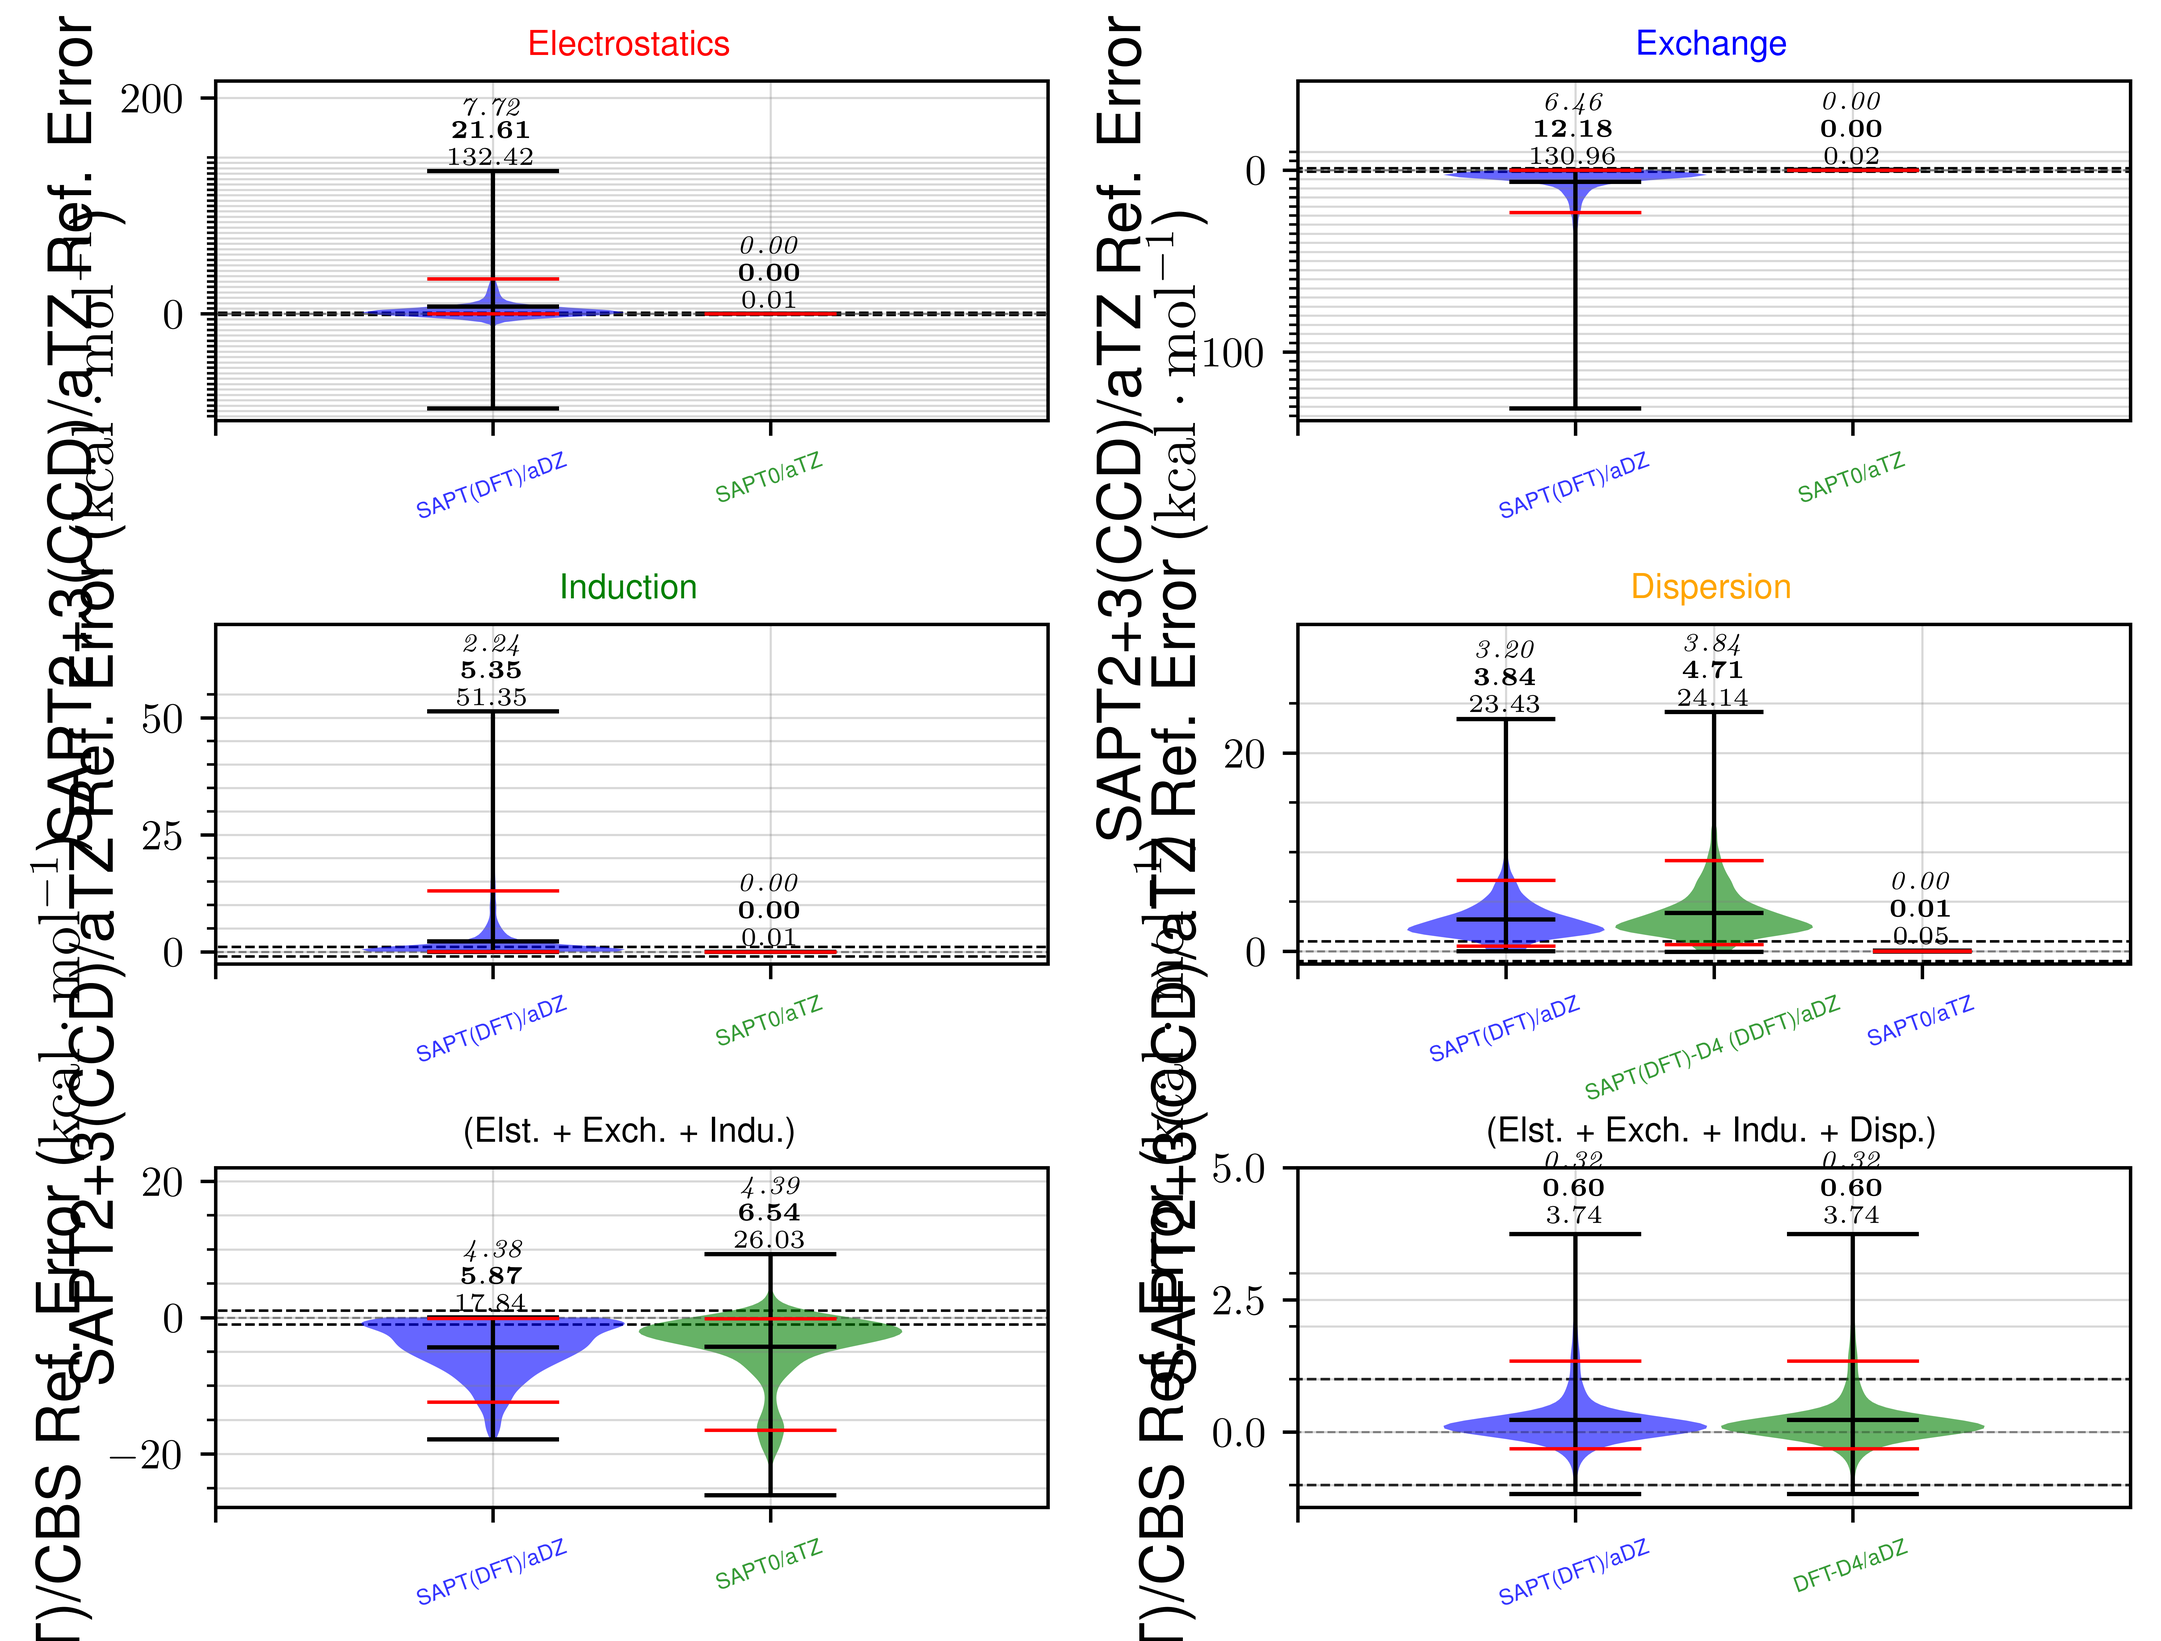
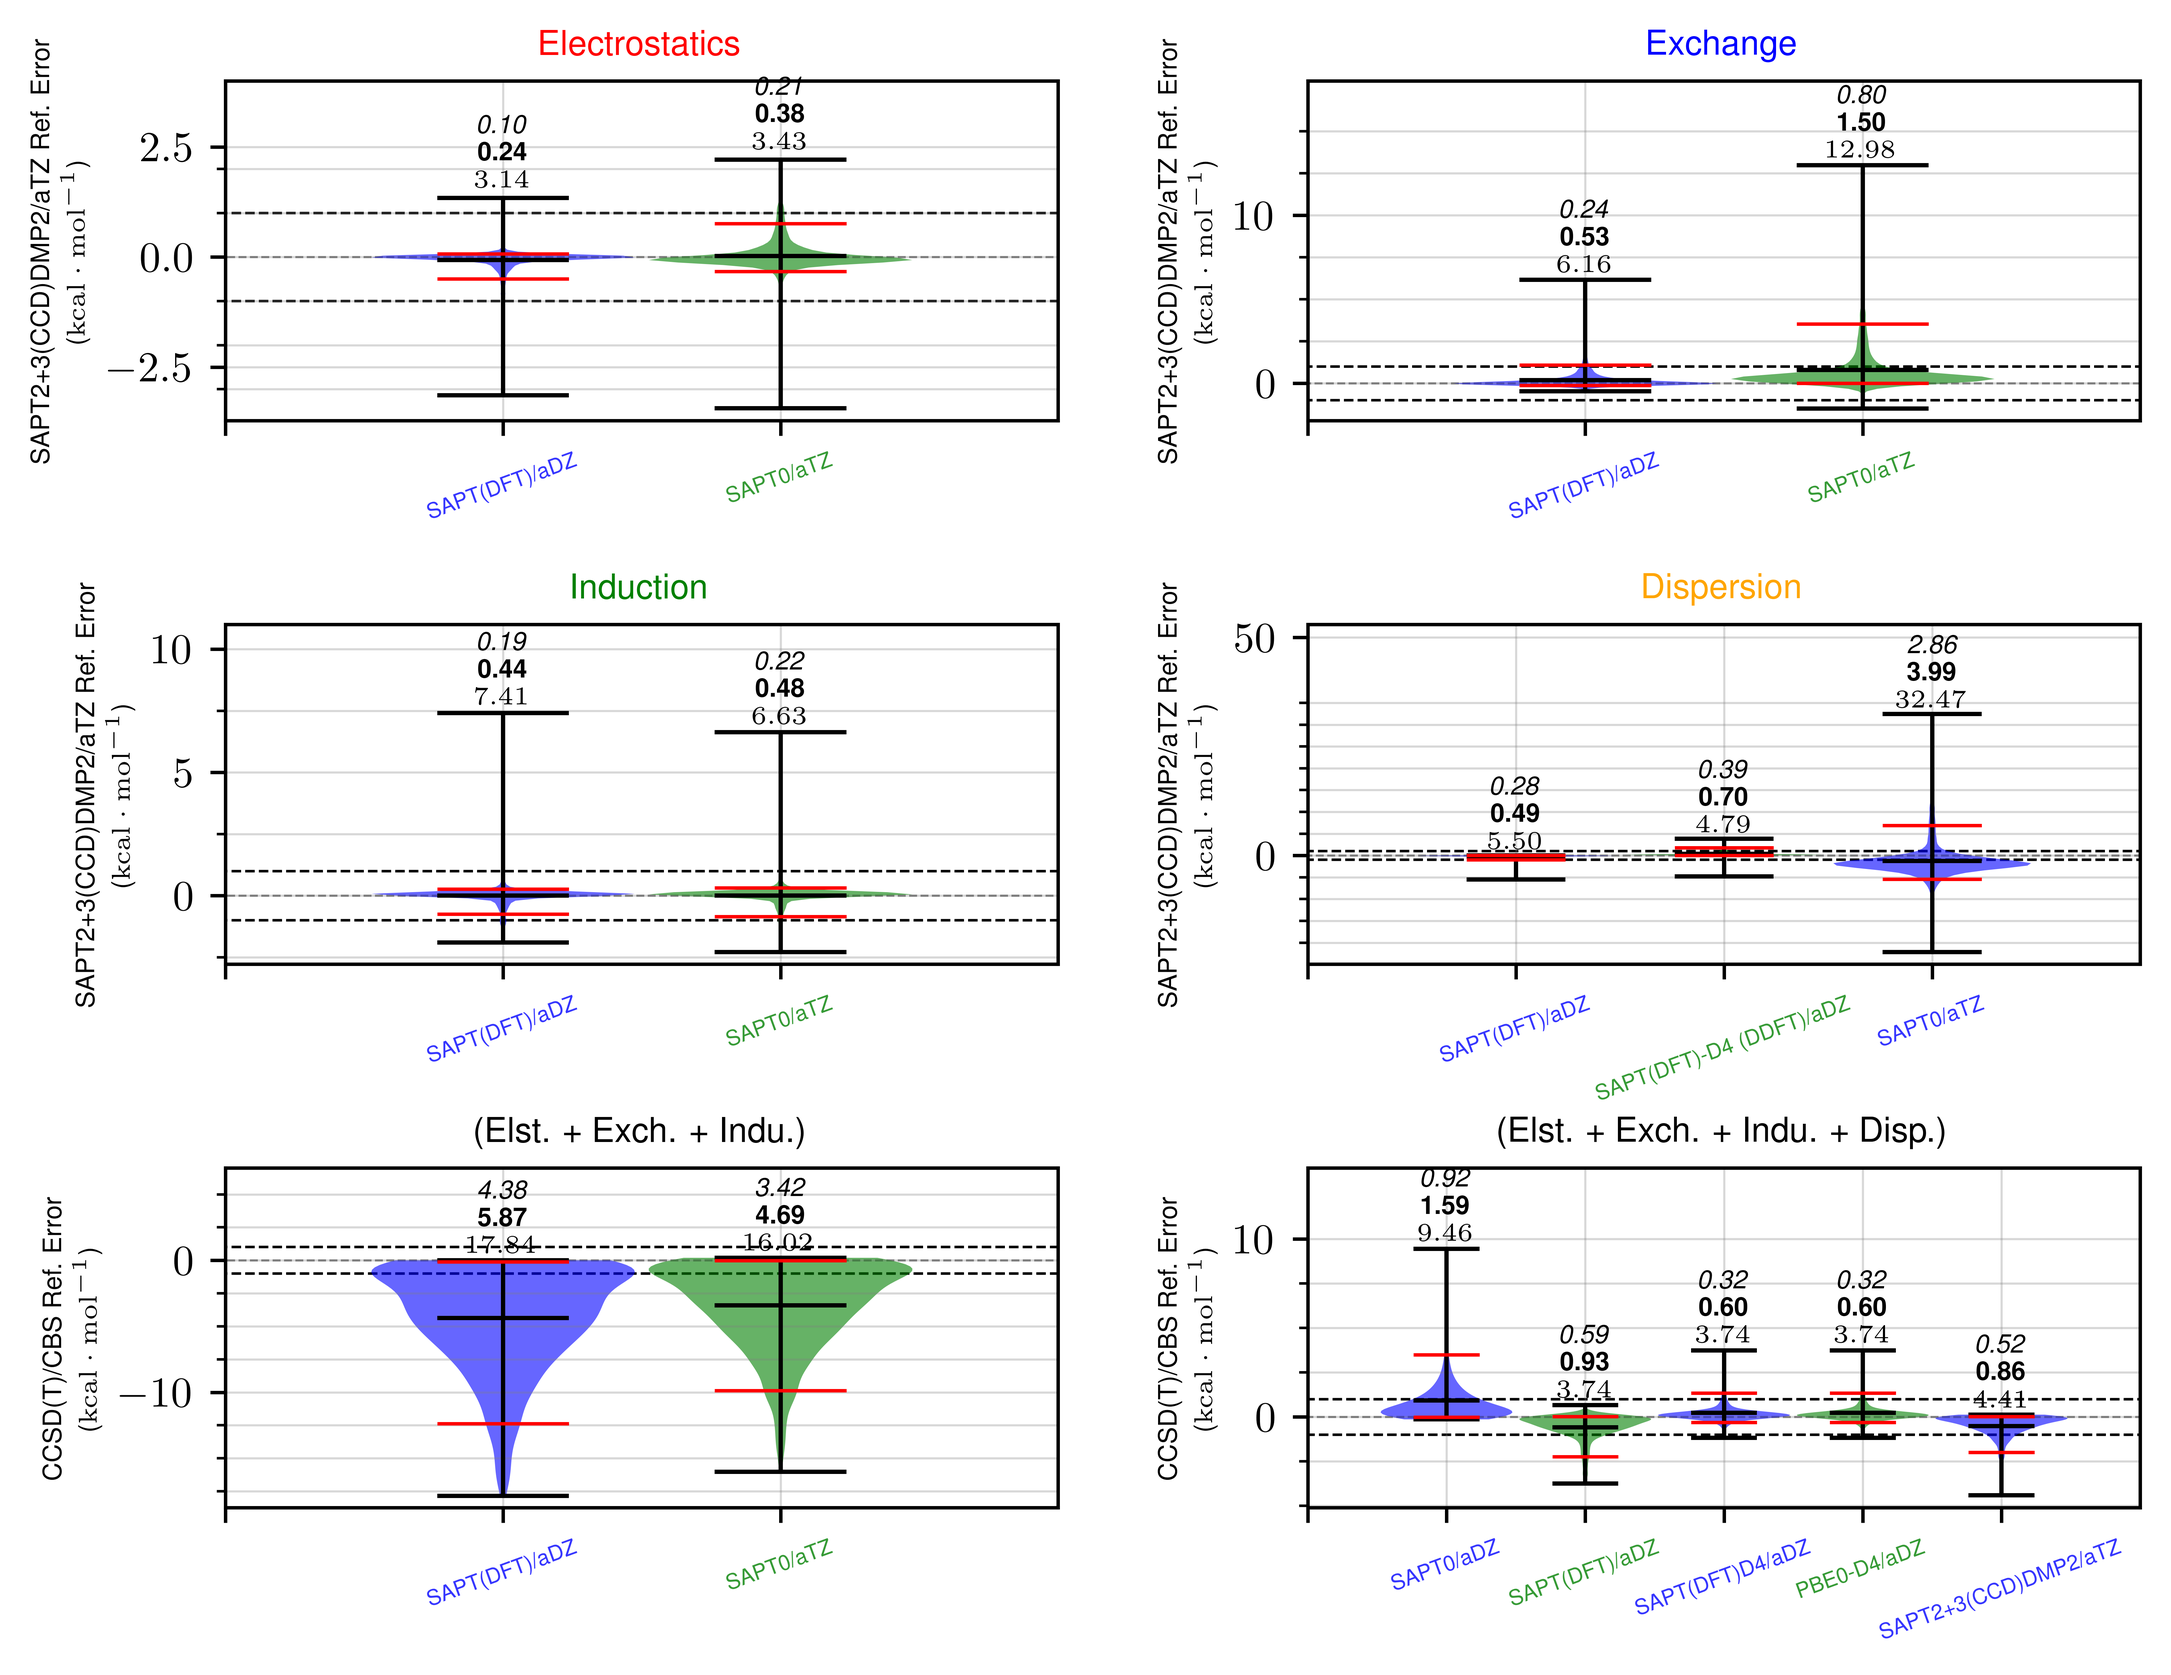
saptdftd4 components correct

diff --git a/src/plotting.py b/src/plotting.py
@@ -8,6 +8,8 @@ import warnings
 from . import paramsTable
 from . import locald4
 from . import jeff
+import qcelemental as qcel
+h2kcalmol =  qcel.constants.conversion_factor("hartree", "kcal/mol")
 
 warnings.simplefilter(action="ignore", category=pd.errors.PerformanceWarning)
 
@@ -1042,7 +1044,7 @@ def plotting_setup_dft(
 
 def plotting_setup_dft_ddft(df, selected, df_out: str = "plots/ddft_study.pkl"):
     print(df)
-    df["SAPT_DFT_pbe0_adz_total"] = df.apply(
+    df["SAPT_DFT_D4_pbe0_adz_total"] = df.apply(
         lambda x: x["SAPT_DFT_adz"][1]
         + x["SAPT_DFT_adz"][2]
         + x["SAPT_DFT_adz"][3]
@@ -1051,9 +1053,17 @@ def plotting_setup_dft_ddft(df, selected, df_out: str = "plots/ddft_study.pkl"):
         - x["SAPT_DFT_pbe0_adz_dHF"],
         axis=1,
     )
+    df["SAPT_DFT_pbe0_adz_total"] = df.apply(
+        lambda x: x["SAPT_DFT_adz"][1]
+        + x["SAPT_DFT_adz"][2]
+        + x["SAPT_DFT_adz"][3]
+        + x["SAPT_DFT_adz"][4],
+        axis=1,
+    )
+
     df['DFT-D4/aDZ'] = df.apply(lambda x: x['SAPT_DFT_pbe0_adz_DFT_IE'] + x['SAPT_DFT_pbe0_adz_D4_IE'], axis=1)
-    print(df[['SAPT_DFT_pbe0_adz_total', 'DFT-D4/aDZ']])
-    assert np.allclose(df['SAPT_DFT_pbe0_adz_total'], df['DFT-D4/aDZ'], atol=1e-6)
+    # print(df[['SAPT_DFT_D4_pbe0_adz_total', 'DFT-D4/aDZ']])
+    assert np.allclose(df['SAPT_DFT_D4_pbe0_adz_total'], df['DFT-D4/aDZ'], atol=1e-6)
     df['SAPT_DFT_pbe0_adz_elst'] = df['SAPT_DFT_adz'].apply(lambda x: x[1])
     df['SAPT_DFT_pbe0_adz_exch'] = df['SAPT_DFT_adz'].apply(lambda x: x[2])
     df['SAPT_DFT_pbe0_adz_indu'] = df['SAPT_DFT_adz'].apply(lambda x: x[3])
@@ -1061,13 +1071,19 @@ def plotting_setup_dft_ddft(df, selected, df_out: str = "plots/ddft_study.pkl"):
     df['SAPT_DFT_adz_3_IE'] = df['SAPT_DFT_pbe0_adz_elst'] + df['SAPT_DFT_pbe0_adz_exch'] + df['SAPT_DFT_pbe0_adz_indu']
     df['SAPT_DFT_pbe0_adz_d4_disp'] = df.apply(lambda x: x["SAPT_DFT_pbe0_adz_D4_IE"] + x["SAPT_DFT_pbe0_adz_dDFT"] - x["SAPT_DFT_pbe0_adz_dHF"], axis=1)
 
-    df['SAPT0_atz_3_IE'] = df['SAPT0 ELST ENERGY'] + df['SAPT0 EXCH ENERGY'] + df['SAPT0 IND ENERGY']
-    df['SAPT0_atz_total'] = df['SAPT0_atz_3_IE'] + df['SAPT0 DISP ENERGY']
-    df['SAPT0_atz_elst'] = df['SAPT0 ELST ENERGY']
-    df['SAPT0_atz_exch'] = df['SAPT0 EXCH ENERGY']
-    df['SAPT0_atz_indu'] = df['SAPT0 IND ENERGY']
-    df['SAPT0_atz_disp'] = df['SAPT0 DISP ENERGY']
-
+    df['SAPT0_atz_3_IE'] = (df['SAPT0 ELST ENERGY'] + df['SAPT0 EXCH ENERGY'] + df['SAPT0 IND ENERGY']) * h2kcalmol
+    df['SAPT0_atz_total'] = (df['SAPT0 ELST ENERGY'] + df['SAPT0 EXCH ENERGY'] + df['SAPT0 IND ENERGY'] +df["SAPT0 DISP ENERGY"]) * h2kcalmol
+    df['SAPT0_atz_elst'] = df['SAPT0 ELST ENERGY'] * h2kcalmol
+    df['SAPT0_atz_exch'] = df['SAPT0 EXCH ENERGY'] * h2kcalmol
+    df['SAPT0_atz_indu'] = df['SAPT0 IND ENERGY'] * h2kcalmol
+    df['SAPT0_atz_disp'] = df['SAPT0 DISP ENERGY'] * h2kcalmol
+    reference = "SAPT2+3(CCD)DMP2"
+    df[f'{reference} ELST ENERGY'] = df[f'{reference} ELST ENERGY'] * h2kcalmol
+    print(df[f'{reference} ELST ENERGY'])
+    df[f'{reference} EXCH ENERGY'] = df[f'{reference} EXCH ENERGY'] * h2kcalmol
+    df[f'{reference} IND ENERGY'] = df[f'{reference} IND ENERGY'] * h2kcalmol
+    df[f'{reference} DISP ENERGY'] = df[f'{reference} DISP ENERGY'] * h2kcalmol
+    df[f'{reference} TOTAL ENERGY'] = df[f'{reference} TOTAL ENERGY'] * h2kcalmol
     # df = compute_d4_from_opt_params(
     #     df,
     #     bases=[
@@ -1084,7 +1100,7 @@ def plotting_setup_dft_ddft(df, selected, df_out: str = "plots/ddft_study.pkl"):
         pfn=f"{selected}_saptdft_components",
         elst_vals={
             "name": "Electrostatics",
-            "reference": ["SAPT2+3(CCD)/aTZ Ref.", "SAPT2+3(CCD) ELST ENERGY"],
+            "reference": [f"{reference}/aTZ Ref.", f"{reference} ELST ENERGY"],
             "vals": {
                 "SAPT(DFT)/aDZ": "SAPT_DFT_pbe0_adz_elst",
                 "SAPT0/aTZ": "SAPT0_atz_elst",
@@ -1092,7 +1108,7 @@ def plotting_setup_dft_ddft(df, selected, df_out: str = "plots/ddft_study.pkl"):
         },
         exch_vals={
             "name": "Exchange",
-            "reference": ["SAPT2+3(CCD)/aTZ Ref.", "SAPT2+3(CCD) EXCH ENERGY"],
+            "reference": [f"{reference}/aTZ Ref.", f"{reference} EXCH ENERGY"],
             "vals": {
                 "SAPT(DFT)/aDZ": "SAPT_DFT_pbe0_adz_exch",
                 "SAPT0/aTZ": "SAPT0_atz_exch",
@@ -1100,7 +1116,7 @@ def plotting_setup_dft_ddft(df, selected, df_out: str = "plots/ddft_study.pkl"):
         },
         indu_vals={
             "name": "Induction",
-            "reference": ["SAPT2+3(CCD)/aTZ Ref.", "SAPT2+3(CCD) IND ENERGY"],
+            "reference": [f"{reference}/aTZ Ref.", f"{reference} IND ENERGY"],
             "vals": {
                 "SAPT(DFT)/aDZ": "SAPT_DFT_pbe0_adz_indu",
                 "SAPT0/aTZ": "SAPT0_atz_indu",
@@ -1108,7 +1124,7 @@ def plotting_setup_dft_ddft(df, selected, df_out: str = "plots/ddft_study.pkl"):
         },
         disp_vals={
             "name": "Dispersion",
-            "reference": ["SAPT2+3(CCD)/aTZ Ref.", "SAPT2+3(CCD) DISP ENERGY"],
+            "reference": [f"{reference}/aTZ Ref.", f"{reference} DISP ENERGY"],
             "vals": {
                 "SAPT(DFT)/aDZ": "SAPT_DFT_pbe0_adz_disp",
                 "SAPT(DFT)-D4 (DDFT)/aDZ": "SAPT_DFT_pbe0_adz_d4_disp",
@@ -1127,10 +1143,12 @@ def plotting_setup_dft_ddft(df, selected, df_out: str = "plots/ddft_study.pkl"):
             "name": "(Elst. + Exch. + Indu. + Disp.)",
             "reference": ["CCSD(T)/CBS Ref.", "benchmark ref energy"],
             "vals": {
-                # "SAPT0/aDZ": "SAPT0_adz_total",
+                "SAPT0/aDZ": "SAPT0_atz_total",
                 # "SAPT0-D4/aDZ": "SAPT0_adz_d4",
                 "SAPT(DFT)/aDZ": "SAPT_DFT_pbe0_adz_total",
-                "DFT-D4/aDZ": "SAPT_DFT_pbe0_adz_total",
+                "SAPT(DFT)D4/aDZ": "SAPT_DFT_D4_pbe0_adz_total",
+                "PBE0-D4/aDZ": "SAPT_DFT_D4_pbe0_adz_total",
+                "SAPT2+3(CCD)DMP2/aTZ": "SAPT2+3(CCD)DMP2 TOTAL ENERGY",
                 # "SAPT(DFT)-D4/aDZ": "SAPT_DFT_adz_3_IE_d4",
                 # "SAPT(DFT)-D4(ATM)/aDZ": "SAPT_DFT_adz_3_IE_d4_ATM",
                 # "SAPT(DFT)/aTZ": "SAPT_DFT_atz_total",
@@ -1237,11 +1255,6 @@ def plot_violin_d3_d4_ALL(
         rmse = df_sub[v].apply(lambda x: x**2).mean() ** 0.5
         mae = df_sub[v].apply(lambda x: abs(x)).mean()
         max_error = df_sub[v].apply(lambda x: abs(x)).max()
-        # text = r"$\mathbf{\mathit{%.2f}}$" % mae
-        # text += "\n"
-        # text += r"$\mathbf{%.2f}$" % rmse
-        # text += "\n"
-        # text += r"$\mathrm{%.2f}$" % max_error
         text = r"\textit{%.2f}" % mae
         text += "\n"
         text += r"\textbf{%.2f}" % rmse
@@ -1392,30 +1405,31 @@ def plot_violin_d3_d4_ALL(
     return
 
 
-def collect_component_data(df, vals):
+def collect_component_data(df, vals, verbose=True):
     vLabels, vData = [], []
     annotations = []  # [(x, y, text), ...]
     cnt = 1
-    # print(vals)
     for k, v in vals["vals"].items():
-        # print(k, v)
         df[v] = pd.to_numeric(df[v])
         df[f"{v}_diff"] = df[vals["reference"][1]] - df[v]
         df_sub = df[df[f"{v}_diff"].notna()].copy()
-        # print(df_sub[[vals["reference"][1], v, f"{v}_diff"]].describe())
         vData.append(df_sub[f"{v}_diff"].to_list())
         vLabels.append(k)
         m = df_sub[f"{v}_diff"].max()
         rmse = df_sub[f"{v}_diff"].apply(lambda x: x**2).mean() ** 0.5
         mae = df_sub[f"{v}_diff"].apply(lambda x: abs(x)).mean()
         max_error = df_sub[f"{v}_diff"].apply(lambda x: abs(x)).max()
-        text = r"$\mathit{%.2f}$" % mae
+        text = r"\textit{%.2f}" % mae
         text += "\n"
-        text += r"$\mathbf{%.2f}$" % rmse
+        text += r"\textbf{%.2f}" % rmse
         text += "\n"
-        text += r"$\mathrm{%.2f}$" % max_error
+        text += r"\textrm{%.2f}" % max_error
         annotations.append((cnt, m, text))
         cnt += 1
+    if verbose:
+        tmp_df = pd.DataFrame(vData, index=vLabels).T
+        tmp_df[vals['reference'][0]] = df[vals['reference'][1]]
+        print(tmp_df)
     return vData, vLabels, annotations
 
 
@@ -1520,13 +1534,13 @@ def plot_component_violin(
     # lg = ax.legend(loc="upper left", edgecolor="black", fontsize="8")
     # lg.get_frame().set_facecolor((1, 1, 1, 0.0))
 
-    ylabel = f"{ylabel} Error" + r" ($\mathrm{kcal\cdot mol^{-1}}$)"
+    ylabel = f"{ylabel} Error\n" + r" ($\mathrm{kcal\cdot mol^{-1}}$)"
     # set minor ticks to be between major ticks
 
     ax.grid(color="grey", which="major", linewidth=0.5, alpha=0.3)
     ax.grid(color="grey", which="minor", linewidth=0.5, alpha=0.3)
     # Set subplot title
-    ax.set_ylabel(ylabel, color="k", fontsize="14")
+    ax.set_ylabel(ylabel, color="k", fontsize="6")
     title_color = "k"
     if title_name == "Electrostatics":
         title_color = "red"
@@ -1644,9 +1658,13 @@ def plot_violin_SAPT0_DFT_components(
     fig.subplots_adjust(hspace=0.6, wspace=0.3)
 
     # Component Data
+    print("\nELST")
     elst_data, elst_labels, elst_annotations = collect_component_data(df, elst_vals)
+    print("\nEXCH")
     exch_data, exch_labels, exch_annotations = collect_component_data(df, exch_vals)
+    print("\nINDU")
     indu_data, indu_labels, indu_annotations = collect_component_data(df, indu_vals)
+    print("\nDISP")
     disp_data, disp_labels, disp_annotations = collect_component_data(df, disp_vals)
     three_total_data, three_total_labels, three_total_annotations = (
         collect_component_data(df, three_total_vals)

diff --git a/plot_saptdft.py b/plot_saptdft.py
@@ -9,7 +9,11 @@ def main():
     if 'Geometry_bohr' not in df.columns:
         df = src.misc.make_geometry_bohr_column_df(df)
         df.to_pickle(df_name)
-    print(df.columns.values)
+    # if 'C6' not in df.columns:
+    #     df = src.setup.generate_D4_data(df)
+    #     df.to_pickle(df_name)
+    # print(df.columns.values)
+    print(len(df))
     src.plotting.plotting_setup_dft_ddft(
         df,
         df_name,
